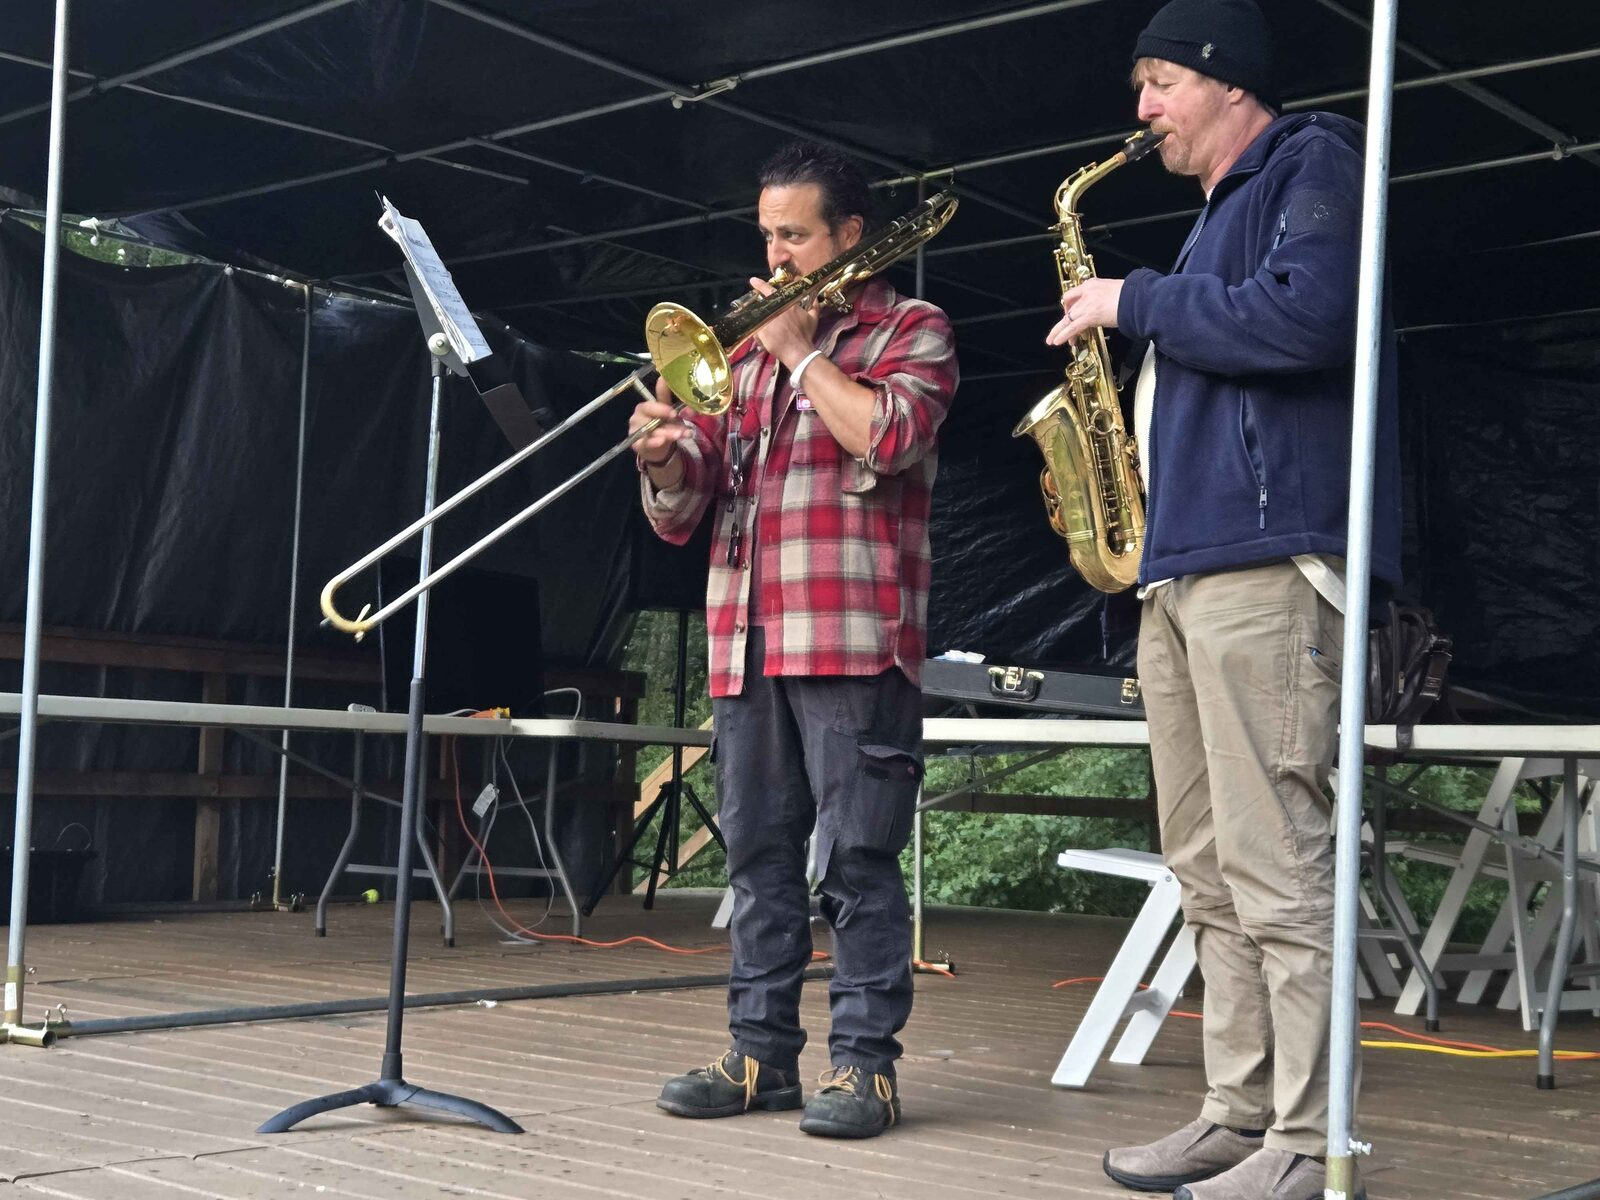
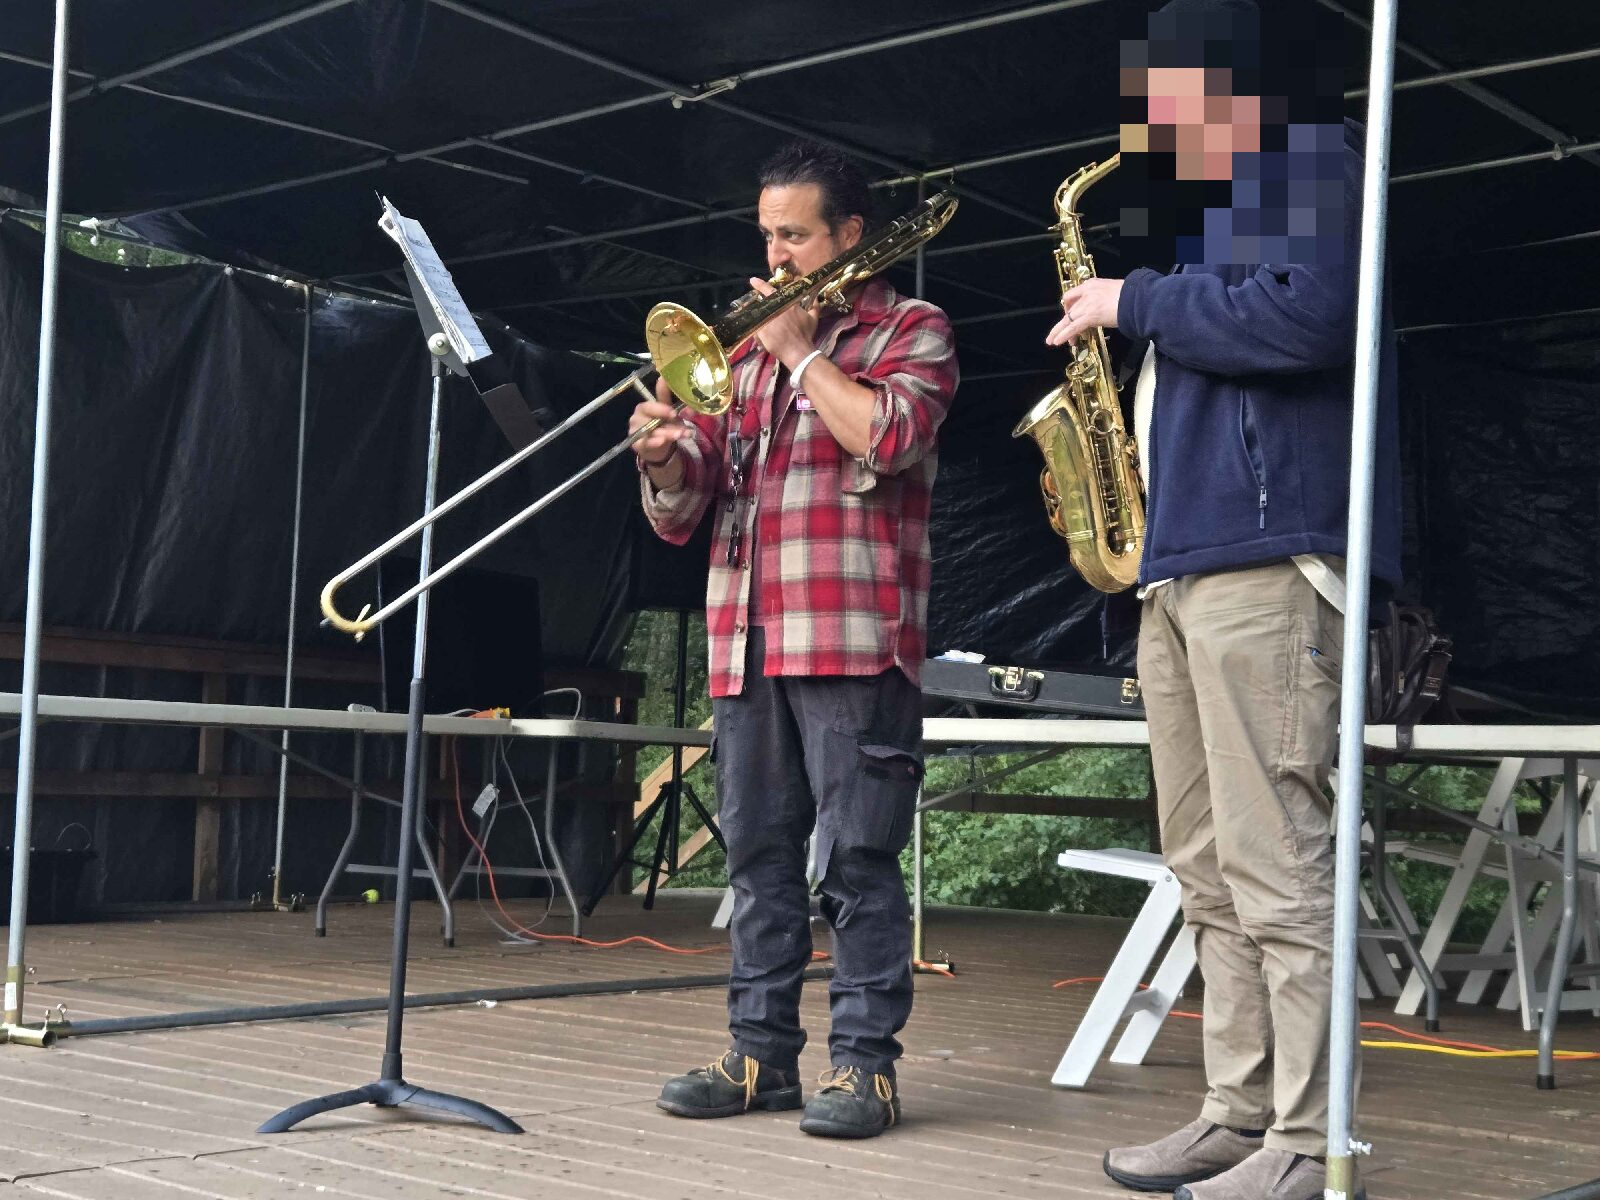
Operator review: remove 2 photos, anonymize sax player, prose tweak

Changed region(s): [[0.6875, 0.0308, 0.8438, 0.2158]]

diff --git a/_posts/2026-07-04-heard-it-on-the-pirate-radio.md b/_posts/2026-07-04-heard-it-on-the-pirate-radio.md
@@ -93,16 +93,11 @@ One more detail, because it is funnier and truer than the clean version. The loc
 
 ## The workshops
 
-I ran hands-on workshops, and they were the best kind of tired.
+I ran hands-on workshops, and they were some of the best hours I put in all week.
 
 The lock-drilling workshop got out of hand in the best way. Demand was high enough that we stretched it from one hour to an hour and a half to two and a half, and that was before day one had even started. I helped adults and kids. I helped people who had a lock at home they needed to drill. I helped first-time drill users and lockpicking enthusiasts and people who were walking past and got curious. I met a master locksmith from ASSA who had crossed over into cybersecurity, the first and only other person I have ever met who came at these two professions from the same strange sideways angle I did.
 
 My favorite moment was small. Someone waited over an hour, just to drill a lock, for the fun of it. Drilling locks has quietly become a chore for me. Watching it be pure novelty and joy for someone else reset something.
-
-<figure>
-  <img src="/assets/images/pirate-radio/narwhal-amateur-radio.jpg" alt="The author in a black brimmed hat soldering at the Narwhal Amateur Radio Society table, a teardrop banner behind, tents and a trans flag in the background." loading="lazy">
-  <figcaption>Staff means you are always working on something. I did not mind.</figcaption>
-</figure>
 
 The other workshop was the flash one. People clipped a programmer onto a real lock's flash chip, read it, decoded the user-code page, wrote their own code in, and watched the lock open. Partway through, someone I respect told me you do not need to sit behind a screen to be a hacker. That one landed, because I have always believed you become a hacker the moment another hacker calls you one. A couple of attendees asked me to help on their own projects afterward, which I will keep to myself, and which I am ecstatic about.
 
@@ -177,11 +172,6 @@ The camp runs on a simple current. Everyone looked out for everyone. Lost items 
 
 <figure>
   <img src="/assets/images/pirate-radio/alien-flora-figure.jpg" alt="A night art installation, a red-outlined winged figure with hanging LED jellyfish in the trees." loading="lazy">
-</figure>
-
-<figure>
-  <img src="/assets/images/pirate-radio/uv-forest-path.jpg" alt="A UV-lit purple forest path with art at night." loading="lazy">
-  <figcaption>Alien flora, the whole trail.</figcaption>
 </figure>
 
 ## The people who kept handing me doors
